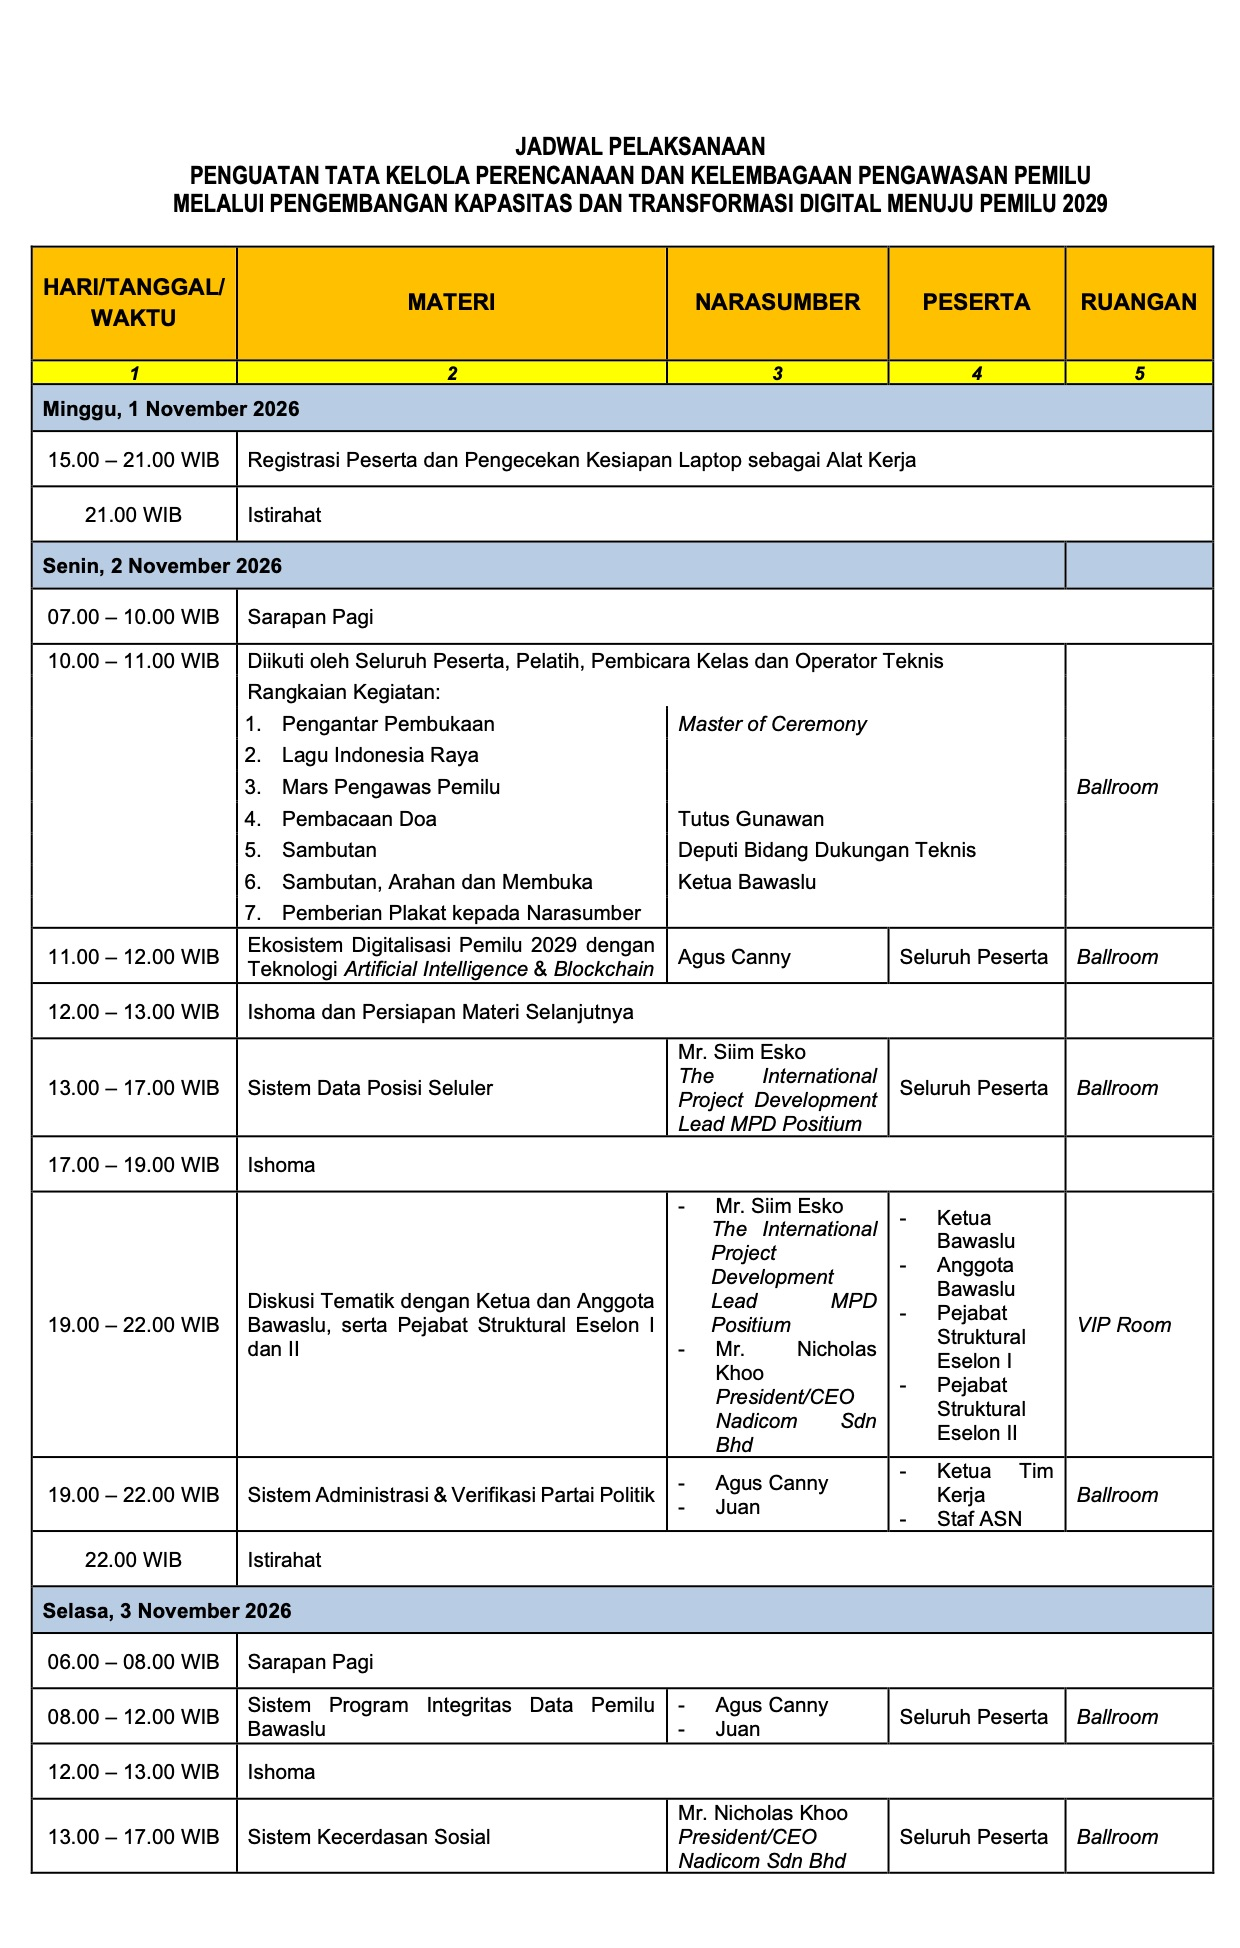
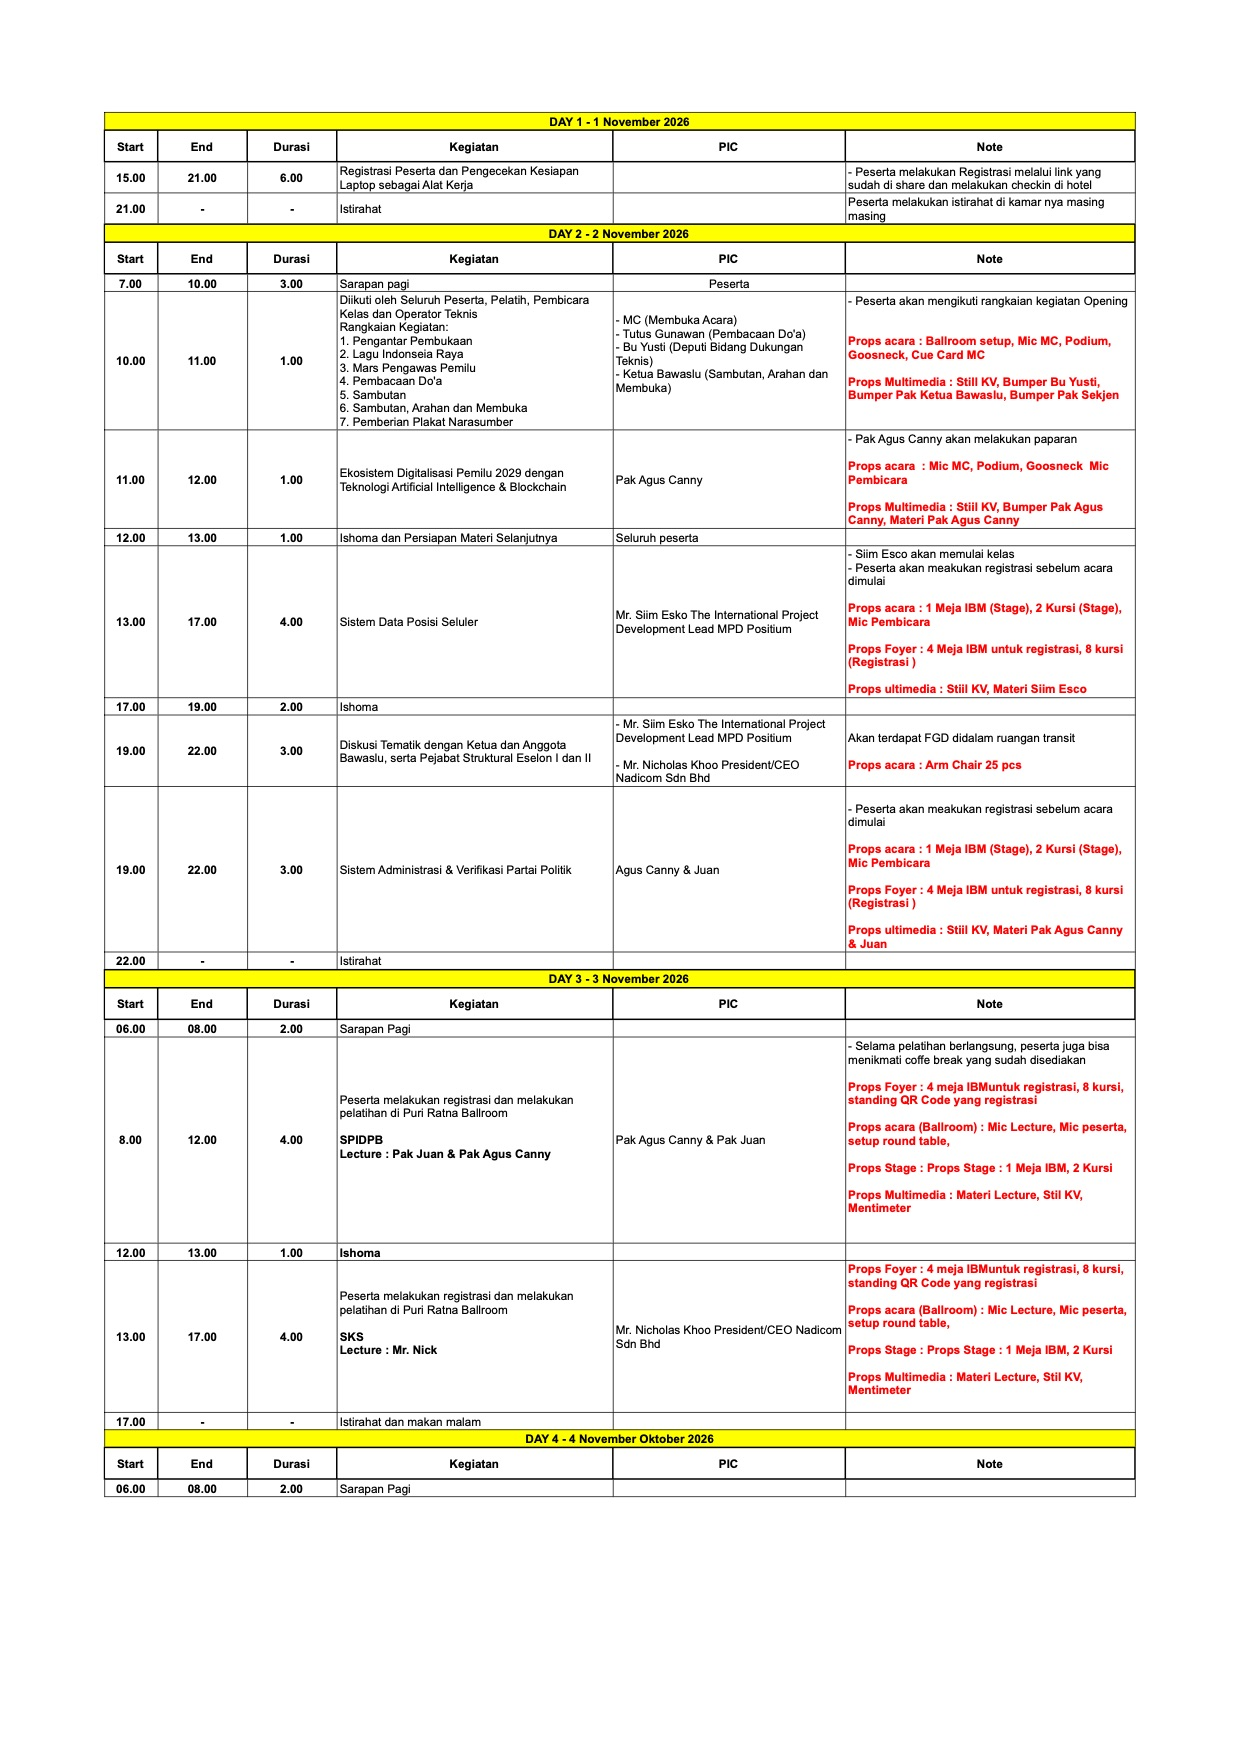
feat: remove duplicate validation, update rundown

diff --git a/src/services/eventInfo.ts b/src/services/eventInfo.ts
@@ -18,7 +18,7 @@ const speaker = (name: string, prefix: string, count: number, height: number, pr
 // Shown until an admin saves Info acara, and what "Pakai data contoh" restores. The files are in public/.
 export const BUILT_IN_CONTENT: EventContent = {
   mentimeter_url: "https://www.menti.com/",
-  rundown: pages("/rundown/rundown", 2, 1948),
+  rundown: pages("/rundown/rundown", 2, 1755),
   speakers: [
     speaker("Dr. Agus Canny", "/narasumber/agus-canny", 9, 1605, [820, 310]),
     speaker("Muhammad Juan Al Qausar", "/narasumber/muhammad-juan-al-qausar", 7, 1605, [960, 590]),

diff --git a/README.md b/README.md
@@ -33,7 +33,7 @@ npm run weight     # public page weight gate (needs the dist/ build)
 
 ## Supabase setup
 
-The app uses the `guestbook_` tables, RPCs and buckets created by `supabase/migrations/20261026000000_guestbook.sql` `20261026120000_guestbook_optional_jabatan.sql` (Jabatan is no longer collected; the column became optional and existing values are kept) `20261026180000_guestbook_automatic_checkin.sql` (visit dates are no longer asked for; check-in rows get today's Jakarta date) `20261026200000_guestbook_checkout.sql` (check-out time, the hashed check-out code, and the attendee and admin check-out functions) and `20261028000000_guestbook_room_number_optional_address.sql` (the optional hotel room number, and the address becomes optional because the form no longer asks for an address or map pin; until it is applied, check-ins still work, without the room number and with `-` as the address) and `20261029000000_guestbook_divisi.sql` (the division; required on the form, optional in the database so older clients keep working; until it is applied, check-ins go through without the division or room number) and `20261030000000_guestbook_event_content.sql` (the `event_content` column and the public `guestbook-event` bucket for *Info acara*; until it is applied, attendees see the built-in rundown and CVs and saving in *Info acara* says which migration to run) and `20261031000000_guestbook_form_fields.sql` (the `form_fields` setting, the `answers` column and `p_answers` on the check-in RPC; until it is applied the form shows Divisi, saving in *Formulir* says to run the migration, and check-ins go through without answers) and `20261101000000_guestbook_repeat_checkin.sql` (`last_checked_in_at` and `checkin_count`; a repeat check-in is welcomed and recorded on the person's row instead of reported as a duplicate; until it is applied, a repeat check-in is welcomed but not recorded) and `20261102000000_guestbook_repeat_checkout_code.sql` (a repeat check-in with the stored name gets a new check-out code; until it is applied, that visit cannot be checked out from the phone) and `20261103000000_guestbook_sheet_sync.sql` (copies check-ins to a Google Sheet once it is set up, see *Google Sheet*; until then it sends nothing) and `20261104000000_guestbook_auto_checkout.sql` (a pg_cron job checks out everyone still checked in at 23:59 WIB every day; phones also forget check-ins from an earlier day, so each day starts on the form) in the linked project `dzzufvejzbhgwiemcxwz`. Migrations are additive; never run `db reset --linked`. Apply pending migrations before deploying a client that depends on them.
+The app uses the `guestbook_` tables, RPCs and buckets created by `supabase/migrations/20261026000000_guestbook.sql` `20261026120000_guestbook_optional_jabatan.sql` (Jabatan is no longer collected; the column became optional and existing values are kept) `20261026180000_guestbook_automatic_checkin.sql` (visit dates are no longer asked for; check-in rows get today's Jakarta date) `20261026200000_guestbook_checkout.sql` (check-out time, the hashed check-out code, and the attendee and admin check-out functions) and `20261028000000_guestbook_room_number_optional_address.sql` (the optional hotel room number, and the address becomes optional because the form no longer asks for an address or map pin; until it is applied, check-ins still work, without the room number and with `-` as the address) and `20261029000000_guestbook_divisi.sql` (the division; required on the form, optional in the database so older clients keep working; until it is applied, check-ins go through without the division or room number) and `20261030000000_guestbook_event_content.sql` (the `event_content` column and the public `guestbook-event` bucket for *Info acara*; until it is applied, attendees see the built-in rundown and CVs and saving in *Info acara* says which migration to run) and `20261031000000_guestbook_form_fields.sql` (the `form_fields` setting, the `answers` column and `p_answers` on the check-in RPC; until it is applied the form shows Divisi, saving in *Formulir* says to run the migration, and check-ins go through without answers) and `20261101000000_guestbook_repeat_checkin.sql` (`last_checked_in_at` and `checkin_count`; a repeat check-in is welcomed and recorded on the person's row instead of reported as a duplicate; until it is applied, a repeat check-in is welcomed but not recorded) and `20261102000000_guestbook_repeat_checkout_code.sql` (a repeat check-in with the stored name gets a new check-out code; until it is applied, that visit cannot be checked out from the phone) and `20261103000000_guestbook_sheet_sync.sql` (copies check-ins to a Google Sheet once it is set up, see *Google Sheet*; until then it sends nothing) and `20261105000000_guestbook_repeat_answers.sql` (a repeat check-in's answers replace the earlier ones question by question, so a question added since gets its answer; before it, a returning attendee's answers were kept only if they had none) and `20261104000000_guestbook_auto_checkout.sql` (a pg_cron job checks out everyone still checked in at 23:59 WIB every day; phones also forget check-ins from an earlier day, so each day starts on the form) in the linked project `dzzufvejzbhgwiemcxwz`. Migrations are additive; never run `db reset --linked`. Apply pending migrations before deploying a client that depends on them.
 
 ```sh
 set -a; . ./supabase/.env.cli.local; set +a   # exports SUPABASE_DB_PASSWORD for the CLI without printing it
@@ -42,7 +42,7 @@ npm run db:push
 npm run db:status
 ```
 
-What the migrations enforce: attendees can only call `guestbook_check_in` and `guestbook_check_out` (with the code their phone received; only a SHA-256 hash of it is stored, and repeating it is harmless) (validation, honeypot, one row per normalised phone number and per e-mail: a repeat check-in updates that row's latest check-in and count, fills in only answers it lacked, clears its check-out, and returns a new check-out code only when the name typed is the stored one, since check-out answers with the name) and upload into `guestbook-uploads/checkins/`; only users listed in `guestbook_admins` can read check-ins, draw winners, update settings or read uploads. Settings are public so the page can render the theme.
+What the migrations enforce: attendees can only call `guestbook_check_in` and `guestbook_check_out` (with the code their phone received; only a SHA-256 hash of it is stored, and repeating it is harmless) (validation, honeypot, one row per normalised phone number and per e-mail: a repeat check-in updates that row's latest check-in and count, takes the answers given this time (question by question; name, phone and e-mail stay as first given), clears its check-out, and returns a new check-out code only when the name typed is the stored one, since check-out answers with the name) and upload into `guestbook-uploads/checkins/`; only users listed in `guestbook_admins` can read check-ins, draw winners, update settings or read uploads. Settings are public so the page can render the theme.
 
 **Owner checklist (Supabase dashboard, once):**
 
@@ -95,7 +95,7 @@ Share the public link (or a QR code of it) with attendees; keep `/admin` for the
 
 ## Google Sheet
 
-Every check-in can be copied to a Google Spreadsheet within a few seconds: one row per attendee, with the export's columns plus `ID`, added when they first check in and updated when they check in again, check out or win a prize (`20261103000000_guestbook_sheet_sync.sql` and `scripts/google-sheet/Code.gs`). The database sends the changes in the background after saving; a check-in never waits for Google or fails because of it, but a send that fails (Google down) is not retried: the admin export stays the complete record, and the resend below fills the gaps.
+Every check-in can be copied to a Google Spreadsheet within a few seconds. The sheet is a log: a new row for every check-in, so someone who checks in three times has three rows, numbered by *Check-in ke-* and each with that visit's time (the database still keeps one row per person and counts the visits). A check-out or prize updates the row of the latest visit; columns are the export's, plus `ID` (`20261103000000_guestbook_sheet_sync.sql` and `scripts/google-sheet/Code.gs`). The database sends the changes in the background after saving; a check-in never waits for Google or fails because of it, but a send that fails (Google down) is not retried: the admin export stays the complete record, and the resend below fills the gaps.
 
 1. Create the spreadsheet, then *Extensions → Apps Script*. Replace the contents of `Code.gs` with `scripts/google-sheet/Code.gs` and save.
 2. *Project Settings* (gear) *→ Script Properties → Add script property*: `SECRET`, with a long random value (for example the output of `openssl rand -hex 24`).
@@ -109,7 +109,7 @@ Every check-in can be copied to a Google Spreadsheet within a few seconds: one r
    select private.guestbook_sheet_resend();
    ```
 
-The rows appear in a `Check-in` tab (everyone, one row per person) and in a tab per session of each day, such as `02-11-2026 Sesi 2 Siang`, created when the session's first check-in arrives: someone who comes to several sessions is in each of their tabs, and a check-out or prize updates the row in the tab of their latest check-in. The sessions follow the rundown (`SCHEDULE` at the top of the script): registration on 1 November; Pagi, Siang from 12:00 and Malam from 17:00 on 2 November; Pagi and Siang from 12:00 on 3–5 November; Pagi only on 6 November. A check-in during a break counts for the session after it. If they do not, `select status_code, error_msg, created from net._http_response order by created desc limit 5;` shows the latest sends (302 is normal: Apps Script answers with a redirect after writing). `select private.guestbook_sheet_resend();` sends everything again at any time, and rows already in the sheet are updated rather than repeated. `delete from private.guestbook_sheet;` stops the copying. After changing the script, publish it with *Deploy → Manage deployments → Edit → New version* so the URL stays the same. Anyone the spreadsheet is shared with sees attendees' names, phone numbers and e-mails.
+The rows appear in a `Check-in` tab (every check-in) and in a tab per session of each day, such as `02-11-2026 Sesi 2 Siang`, created when the session's first check-in arrives: someone who comes to several sessions is in each of their tabs. The sessions follow the rundown (`SCHEDULE` at the top of the script): registration on 1 November; Pagi, Siang from 12:00 and Malam from 17:00 on 2 November; Pagi and Siang from 12:00 on 3–5 November; Pagi only on 6 November. A check-in during a break counts for the session after it. If they do not, `select status_code, error_msg, created from net._http_response order by created desc limit 5;` shows the latest sends (302 is normal: Apps Script answers with a redirect after writing). `select private.guestbook_sheet_resend();` sends everything again at any time; rows already in the sheet are updated rather than repeated, but since the database keeps only each person's first and latest check-in, a resend cannot rebuild earlier visits' rows. `delete from private.guestbook_sheet;` stops the copying. After changing the script, publish it with *Deploy → Manage deployments → Edit → New version* so the URL stays the same. Anyone the spreadsheet is shared with sees attendees' names, phone numbers and e-mails.
 
 ## Demo data
 
